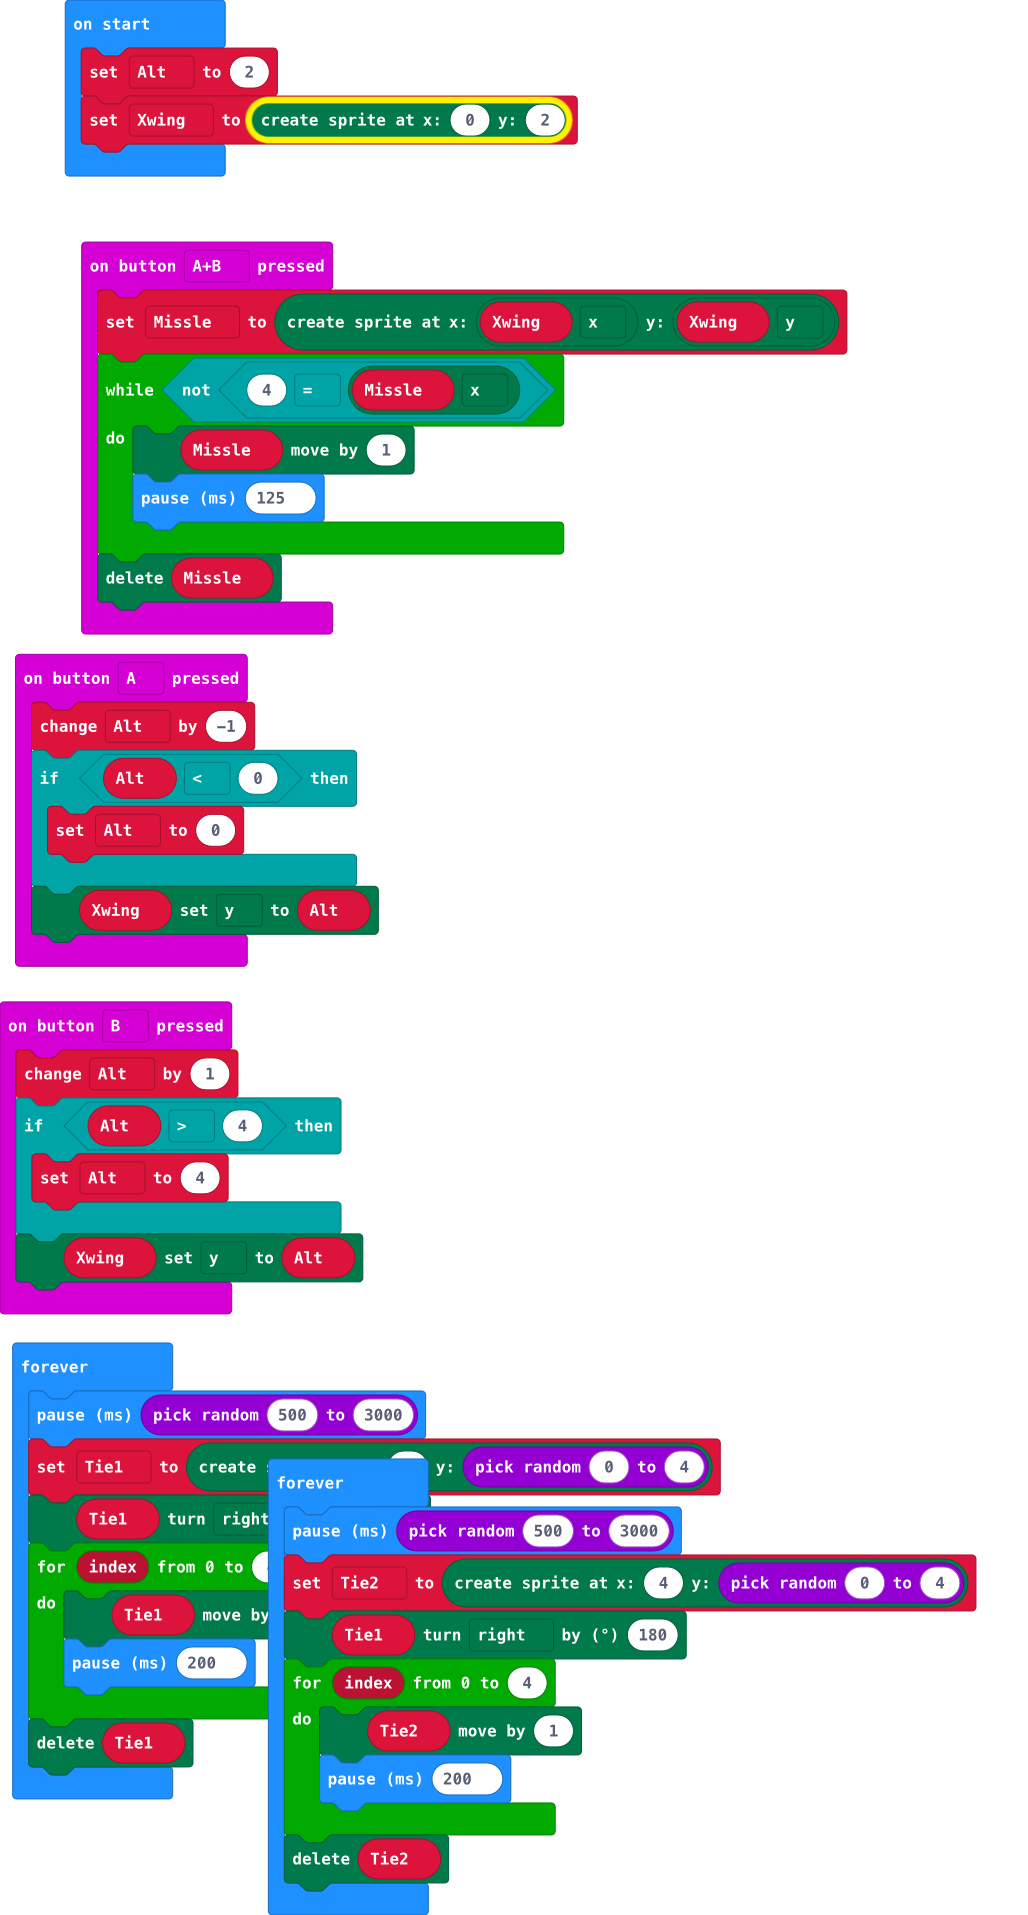
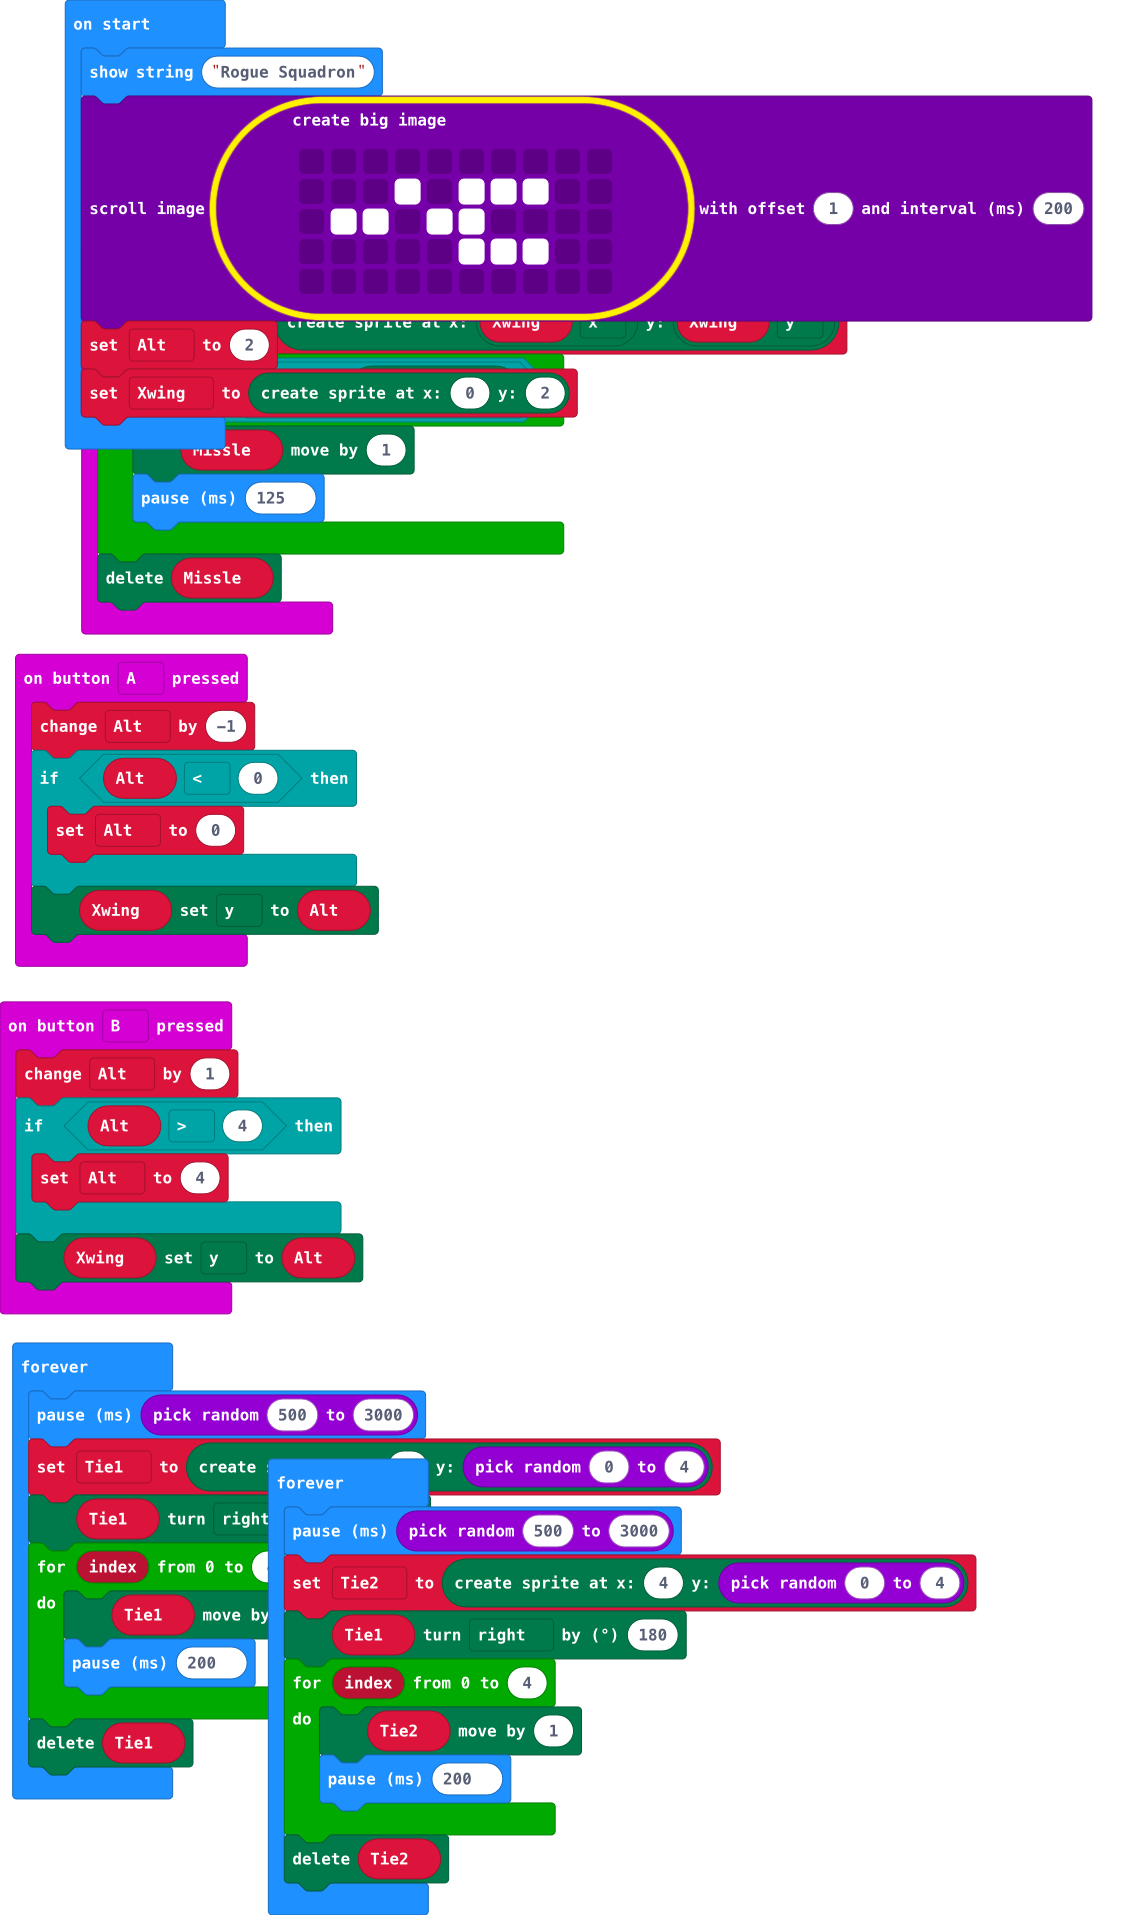
Update main.blocks, main.ts

Changed region(s): [[0.0, 0.0, 0.965, 1.0]]

diff --git a/main.ts b/main.ts
@@ -25,6 +25,14 @@ let Tie1: game.LedSprite = null
 let Missle: game.LedSprite = null
 let Xwing: game.LedSprite = null
 let Alt = 0
+basic.showString("Rogue Squadron")
+images.createBigImage(`
+    . . . . . . . . . .
+    . . . # . # # # . .
+    . # # . # # . . . .
+    . . . . . # # # . .
+    . . . . . . . . . .
+    `).scrollImage(1, 200)
 Alt = 2
 Xwing = game.createSprite(0, 2)
 basic.forever(function () {
